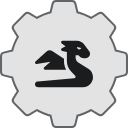
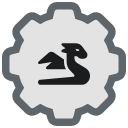
v0.8.12: Heavier gear edge; credit Font Awesome
- The gear's grey edge is now about as heavy as the dragon's strokes, so
  the mark reads as one weight; gear and dragon are scaled slightly to
  fit.
- README credits the Font Awesome Free dragon (CC BY 4.0) instead of the
  old Cinzel lettering, and the version is bumped (the previous logo
  commit missed both).

Changed region(s): [[0.0, 0.0, 1.0, 1.0], [0.25, 0.3125, 0.7188, 0.5625], [0.25, 0.5, 0.75, 0.6875]]

diff --git a/.github/README.md b/.github/README.md
@@ -234,7 +234,7 @@ The deploy workflow checks the tag matches the manifest version, packages the ex
 
 ## Disclaimer
 
-LegendKeeper Tweaks is an unofficial, personal project. It is not affiliated with or endorsed by LegendKeeper. The icon is a gear with the letters "LK" set in [Cinzel](https://fonts.google.com/specimen/Cinzel) (SIL Open Font License); it doesn't use LegendKeeper's logo.
+LegendKeeper Tweaks is an unofficial, personal project. It is not affiliated with or endorsed by LegendKeeper. The icon is a gear around a dragon from [Font Awesome Free](https://fontawesome.com) ([CC BY 4.0](https://fontawesome.com/license/free)); it doesn't use LegendKeeper's logo.
 
 ## License
 
